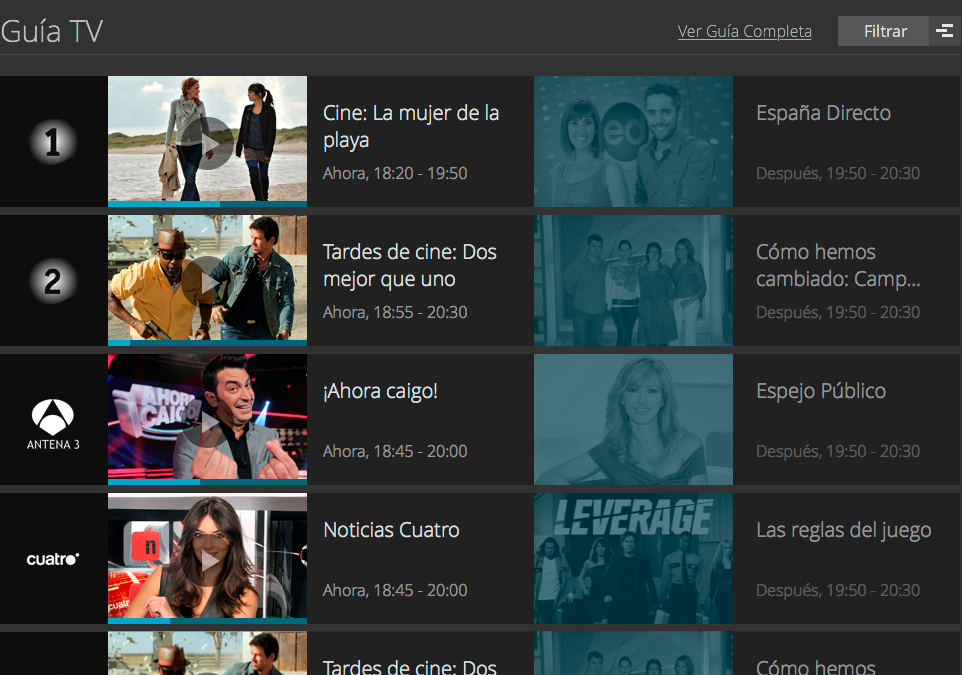
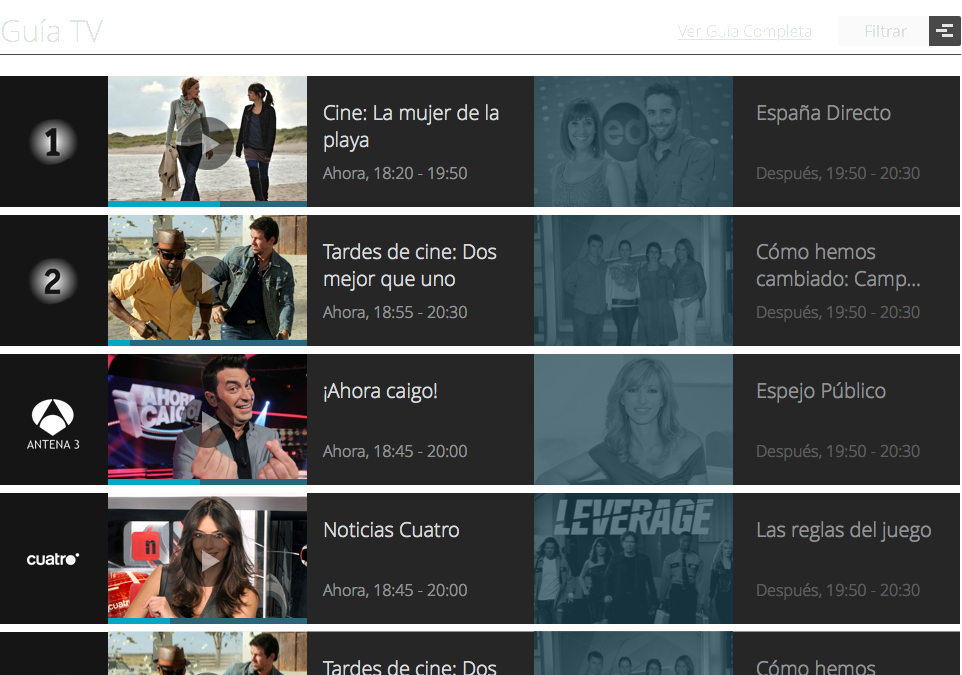
EPG

Changed region(s): [[0.0, 0.0, 1.0, 1.0], [0.6861, 0.5911, 0.7173, 0.6533], [0.2495, 0.5911, 0.2807, 0.6222]]

diff --git a/wp-content/themes/go3/less/fix.less b/wp-content/themes/go3/less/fix.less
@@ -1,0 +1,3 @@
+main {
+	background: none;
+}

diff --git a/wp-content/themes/go3/template-page-tvguide-program.php b/wp-content/themes/go3/template-page-tvguide-program.php
@@ -1,7 +1,7 @@
 <main class="content">
 
 	<section id="contentOnNow" class="content-section">
-		<iframe src=http://enjoy.pdi.tid.es/paytvgo/release/3.0.0/rfa/prod/es/#/tv-guide/epg" width="1024" height="2000" border="0"/>
+		<img class="cover" src="/theme/images/placeholder_tvguide_live2.png" alt="toda la programación" >
 	</section>
 
 </main>
